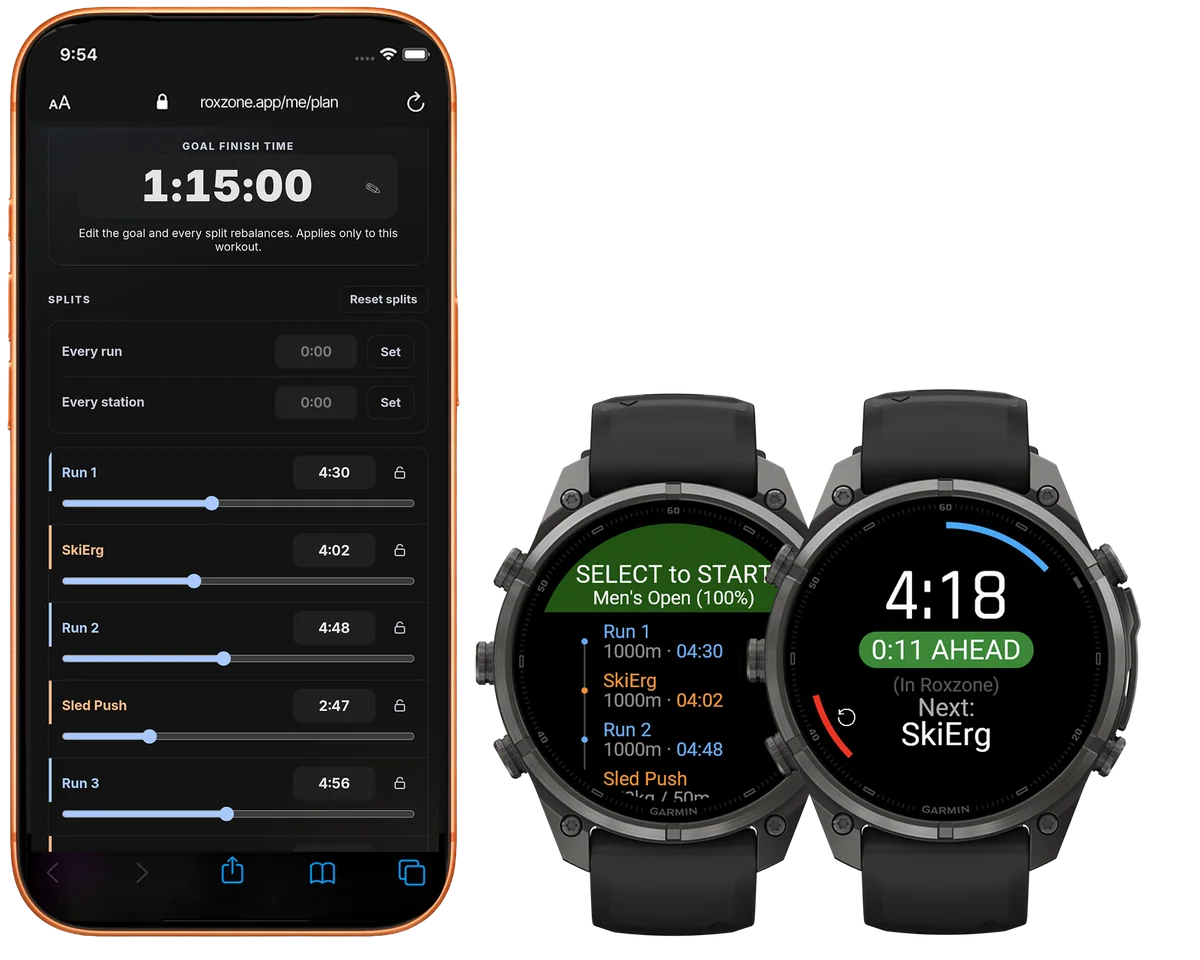
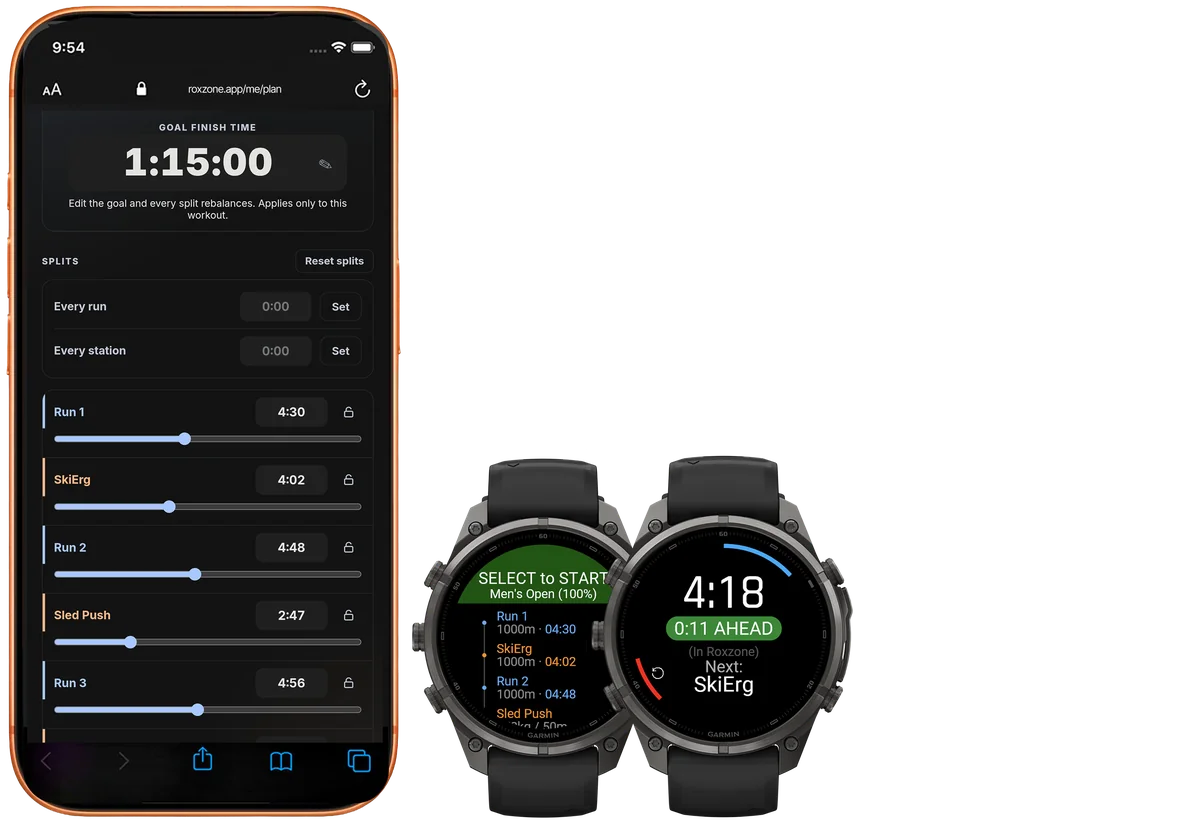
Race Plan artwork: updated export

diff --git a/index.html b/index.html
@@ -416,7 +416,7 @@
         <figure class="plan-media">
           <picture>
             <source srcset="./assets/race-plan.webp" type="image/webp">
-            <img src="./assets/race-plan.png" width="1200" height="960"
+            <img src="./assets/race-plan.png" width="1200" height="834"
                  loading="lazy" decoding="async"
                  alt="A race plan being built on a phone at roxzone.app next to two Garmin watches: one showing the plan's targets on the workout ladder, the other showing a lap 0:11 ahead of the plan">
           </picture>
